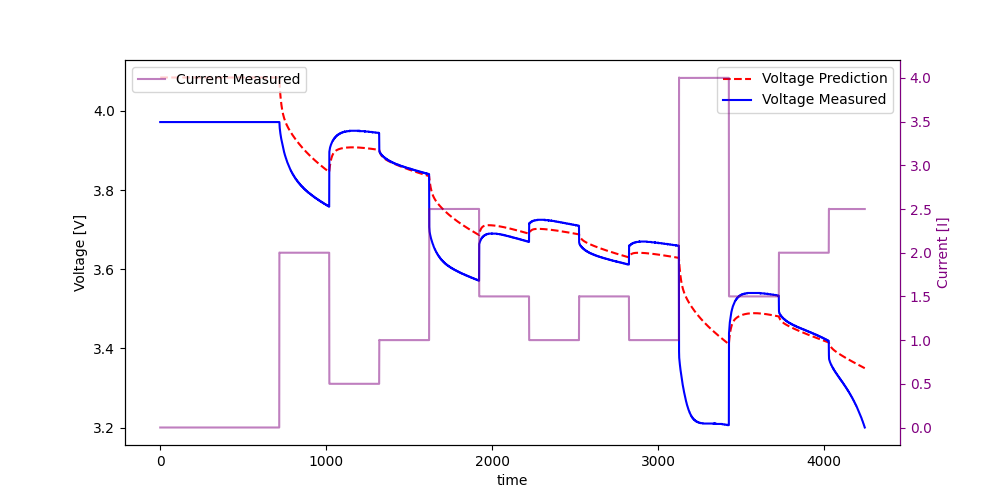
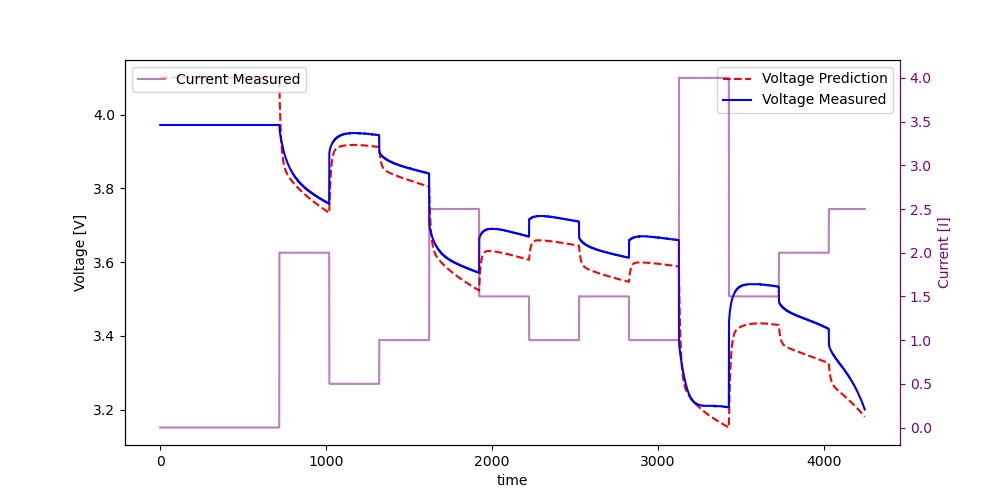
Updated training scheme

diff --git a/torch/BatteryRNNCell_mlp.py b/torch/BatteryRNNCell_mlp.py
@@ -37,24 +37,40 @@ class BatteryRNNCell(nn.Module):
 
         # Initialize MLPp weights
         # Load the weights from the .pth file
-        weights_path = 'torch_train/mlp_initial_weights.pth'
-        mlp_p_weights = torch.load(weights_path)
-        #for keys in mlp_p_weights["model_state_dict"]:
-        #    print("keys available are ",keys)
-        #self.MLPp.load_state_dict(mlp_p_weights['model_state_dict'])
-        #self.MLPp.train()
-        self.WARM_START = WARM_START
-        if self.WARM_START:
-            with torch.no_grad():
-                # Assign weights and biases to each layer in the model
-                self.MLPp[1].weight.copy_(mlp_p_weights["model_state_dict"][ "MLPp.1.weight"])
-                self.MLPp[1].bias.copy_(mlp_p_weights["model_state_dict"]['MLPp.1.bias'])
-                self.MLPp[3].weight.copy_(mlp_p_weights["model_state_dict"]['MLPp.3.weight'])
-                self.MLPp[3].bias.copy_(mlp_p_weights["model_state_dict"]['MLPp.3.bias'])
-                self.MLPp[5].weight.copy_(mlp_p_weights["model_state_dict"]['MLPp.5.weight'])
-                self.MLPp[5].bias.copy_(mlp_p_weights["model_state_dict"]['MLPp.5.bias'])
+        if self.mlp_trainable:
+            weights_path = 'torch_train/mlp_initial_weights.pth'
+            mlp_p_weights = torch.load(weights_path)
+            #for keys in mlp_p_weights["model_state_dict"]:
+            #    print("keys available are ",keys)
+            #self.MLPp.load_state_dict(mlp_p_weights['model_state_dict'])
+            #self.MLPp.train()
+            self.WARM_START = WARM_START
+            if self.WARM_START:
+                with torch.no_grad():
+                    # Assign weights and biases to each layer in the model
+                    self.MLPp[1].weight.copy_(mlp_p_weights["model_state_dict"][ "MLPp.1.weight"])
+                    self.MLPp[1].bias.copy_(mlp_p_weights["model_state_dict"]['MLPp.1.bias'])
+                    self.MLPp[3].weight.copy_(mlp_p_weights["model_state_dict"]['MLPp.3.weight'])
+                    self.MLPp[3].bias.copy_(mlp_p_weights["model_state_dict"]['MLPp.3.bias'])
+                    self.MLPp[5].weight.copy_(mlp_p_weights["model_state_dict"]['MLPp.5.weight'])
+                    self.MLPp[5].bias.copy_(mlp_p_weights["model_state_dict"]['MLPp.5.bias'])
 
-            self.MLPp.to(DEVICE)
+                self.MLPp.to(DEVICE)
+        else:
+            weights_path = 'torch_train/mlp_trained_weights.pth'
+            mlp_p_weights = torch.load(weights_path)
+
+            with torch.no_grad():
+                self.MLPp[1].weight.copy_(mlp_p_weights["cell.MLPp.1.weight"])
+                self.MLPp[1].bias.copy_(mlp_p_weights['cell.MLPp.1.bias'])
+                self.MLPp[3].weight.copy_(mlp_p_weights['cell.MLPp.3.weight'])
+                self.MLPp[3].bias.copy_(mlp_p_weights['cell.MLPp.3.bias'])
+                self.MLPp[5].weight.copy_(mlp_p_weights['cell.MLPp.5.weight'])
+                self.MLPp[5].bias.copy_(mlp_p_weights['cell.MLPp.5.bias'])
+
+            # freeze MLPp
+            for param in self.MLPp.parameters():
+                param.requires_grad = False        
 
         X = torch.linspace(0.0, 1.0, 100).unsqueeze(1).to(DEVICE)
         Y = torch.linspace(-8e-4, 8e-4, 100).unsqueeze(1).to(DEVICE)
@@ -88,14 +104,14 @@ class BatteryRNNCell(nn.Module):
 
         if self.q_max_model is None:
             initial_q_max = torch.tensor(1.4e4 / self.q_max_base_value).to(DEVICE)
-            self.qMax = nn.Parameter(initial_q_max,requires_grad=not self.mlp_trainable).to(DEVICE)
+            self.qMax = nn.Parameter(initial_q_max,requires_grad=True).to(DEVICE)
         else:
             self.qMax = self.q_max_model(torch.tensor(self.curr_cum_pwh)) / self.qMaxBASE
             self.qMax.to(DEVICE)
 
         if self.R_0_model is None:
             initial_R_0 = torch.tensor(0.15 / self.R_0_base_value)
-            self.Ro = nn.Parameter(initial_R_0,requires_grad=not self.mlp_trainable).to(DEVICE)
+            self.Ro = nn.Parameter(initial_R_0,requires_grad=True).to(DEVICE)
         else:
             self.Ro = self.R_0_model(torch.tensor(self.curr_cum_pwh)) / self.RoBASE
             self.Ro.to(DEVICE)

diff --git a/torch/train_Ro_qmax_per_battery.py b/torch/train_Ro_qmax_per_battery.py
@@ -12,7 +12,7 @@ from model import get_model
 #DEVICE = torch.device("cuda" if torch.cuda.is_available() else "cpu")
 DEVICE = torch.device("cpu")
 NUM_EPOCHS = 1000
-BATTERY = 1
+BATTERY = 2
 
 ###### FOR REFERENCE : DATA INGESTION STARTS HERE ##########
 data_RW = getDischargeMultipleBatteries(varnames=['voltage', 'current', 'time'], discharge_type='discharge (random walk)')
@@ -91,23 +91,10 @@ train_idx = [i for i in np.arange(0,36) if i not in val_idx]
 ###### FOR REFERENCE : TRAINING STARTS HERE #########
         
 # Create the MLP model, optimizer, and criterion
-mlp = get_model(dt=dt, mlp=True, share_q_r=False, stateful=True).to(DEVICE)
+mlp = get_model(dt=dt, mlp=True, share_q_r=False, stateful=True,mlp_trainable=False).to(DEVICE)
 
-# load trained weights for MLPp
-weights_path = 'torch_train/mlp_trained_weights.pth'
-mlp_p_weights = torch.load(weights_path)
+# load trained weights for MLPp <-- Happens 
 
-with torch.no_grad():
-    mlp.cell.MLPp[1].weight.copy_(mlp_p_weights["cell.MLPp.1.weight"])
-    mlp.cell.MLPp[1].bias.copy_(mlp_p_weights['cell.MLPp.1.bias'])
-    mlp.cell.MLPp[3].weight.copy_(mlp_p_weights['cell.MLPp.3.weight'])
-    mlp.cell.MLPp[3].bias.copy_(mlp_p_weights['cell.MLPp.3.bias'])
-    mlp.cell.MLPp[5].weight.copy_(mlp_p_weights['cell.MLPp.5.weight'])
-    mlp.cell.MLPp[5].bias.copy_(mlp_p_weights['cell.MLPp.5.bias'])
-
-# freeze MLPp
-for param in mlp.cell.MLPp.parameters():
-    param.requires_grad = False
 
 optimizer = optim.Adam(mlp.parameters(), lr=5e-3)
 criterion = nn.MSELoss().to(DEVICE)
@@ -201,7 +188,7 @@ for i in range(X.shape[0]):
     ax2.tick_params(axis='y', colors='purple')
 
     plt.savefig(f'figures/predictionvsreality_random_walk_unshiffed{i}_Ro_qMax_battery_{BATTERY}.png')
-    # plt.show()
+    plt.show()
 ######## Validation is done here ##########
 
 
@@ -234,5 +221,5 @@ for i in range(X.shape[0]):
     ax2.tick_params(axis='y', colors='purple')
 
     plt.savefig(f'figures/predictionvsreality_random_walk_shiffed{i}_Ro_qMax_battery_{BATTERY}.png')
-    # plt.show()
+    plt.show()
 ######## Validation is done here ##########

diff --git a/torch/train_initial_conditions.py b/torch/train_initial_conditions.py
@@ -42,7 +42,7 @@ def get_data_tensor(data_dict, max_idx_to_use, max_size):
 
 # Load battery data
 data_RW = getDischargeMultipleBatteries()
-max_idx_to_use = 3 # We are training the battery with constamt current data #This is to force nly one battery data
+max_idx_to_use = 36 # We are training the battery with constamt current data #This is to force nly one battery data
 max_size = np.max([v[0, 0].shape[0] for k, v in data_RW.items()])
 dt = np.diff(data_RW[1][2, 0])[1]
 # Get data tensors
@@ -80,7 +80,7 @@ train_idx = [i for i in np.arange(0,36) if i not in val_idx]
 ###### FOR REFERENCE : TRAINING STARTS HERE #########
         
 # Create the MLP model, optimizer, and criterion
-mlp = get_model(dt=dt, mlp=True, share_q_r=False, stateful=True).to(DEVICE)
+mlp = get_model(dt=dt, mlp=True, share_q_r=False, stateful=True,mlp_trainable=False).to(DEVICE)
 optimizer = optim.Adam(mlp.parameters(), lr=5e-3)
 criterion = nn.MSELoss().to(DEVICE)
 param_count = sum(p.numel() for p in mlp.parameters() if p.requires_grad)
@@ -144,7 +144,7 @@ for epoch in range(num_epochs):
             print("Current Learning Rate:", current_learning_rate)
 
 # Save model weights
-torch.save(mlp.state_dict(), 'torch_train/mlp_trained_weights.pth')
+torch.save(mlp.state_dict(), 'torch_train/mlp_trained_weights_bias_correction.pth')
 trained_parameter_value = [mlp.cell.qMax.data.item(),mlp.cell.Ro.data.item()]
 print("Trained Parameter Value:", trained_parameter_value)
 # Plot predictions
@@ -257,8 +257,8 @@ if Validate:
     plt.grid()
 
     plt.xlabel('Time')
-    plt.savefig('figures/predictionvsreality_mlp_trained.png')
-    #plt.show()
+    plt.savefig('figures/predictionvsreality_biascorrected.png')
+    plt.show()
 
 ######## Validation is done here ##########
 

diff --git a/torch/eval_random_loading.py b/torch/eval_random_loading.py
@@ -89,7 +89,7 @@ train_idx = [i for i in np.arange(0,32) if i not in val_idx]
 ###### FOR REFERENCE : MODEL LOADING STARTS HERE ##########
 
 mlp = get_model(dt=dt, mlp=True, share_q_r=False, stateful=True).to(DEVICE)
-weights_path = 'torch_train/mlp_trained_weights.pth'
+weights_path = 'torch_train/mlp_trained_weights_bias_correction.pth'
 mlp_p_weights = torch.load(weights_path)
 
 with torch.no_grad():
@@ -100,7 +100,8 @@ with torch.no_grad():
     mlp.cell.MLPp[5].weight.copy_(mlp_p_weights['cell.MLPp.5.weight'])
     mlp.cell.MLPp[5].bias.copy_(mlp_p_weights['cell.MLPp.5.bias'])
 
-Ro_qmax_path ='torch_train/Ro_qmax_trained_weights.pth'
+#Ro_qmax_path ='torch_train/Ro_qmax_trained_weights.pth'
+Ro_qmax_path = 'torch_train/mlp_trained_weights_bias_correction.pth'
 Ro_qmax = torch.load(weights_path)
 
 with torch.no_grad():

diff --git a/torch/eval_reference_discharge.py b/torch/eval_reference_discharge.py
@@ -74,7 +74,7 @@ train_idx = [i for i in np.arange(0,36) if i not in val_idx]
 
 ###### FOR REFERENCE : MODEL LOADING STARTS HERE ##########
 mlp = get_model(dt=dt, mlp=True, share_q_r=False, stateful=True).to(DEVICE)
-weights_path = 'torch_train/mlp_trained_weights.pth'
+weights_path = 'torch_train/mlp_trained_weights_bias_correction.pth'
 mlp_p_weights = torch.load(weights_path)
 
 with torch.no_grad():
@@ -86,7 +86,8 @@ with torch.no_grad():
     mlp.cell.MLPp[5].bias.copy_(mlp_p_weights['cell.MLPp.5.bias'])
 
     
-Ro_qmax_path ='torch_train/Ro_qmax_trained_weights.pth'
+#Ro_qmax_path ='torch_train/Ro_qmax_trained_weights.pth'
+Ro_qmax_path = 'torch_train/mlp_trained_weights_bias_correction.pth'
 Ro_qmax = torch.load(weights_path)
 
 with torch.no_grad():

diff --git a/TF/BatteryRNNCell_mlp.py b/TF/BatteryRNNCell_mlp.py
@@ -357,6 +357,7 @@ class BatteryRNNCell(Layer):
             initial_state_0_3 = tf.ones([P.qMax.shape[0], 4], dtype=self.dtype) \
                 * tf.constant([292.1, 0.0, 0.0, 0.0], dtype=self.dtype)
             initial_state = tf.concat([initial_state_0_3, tf.expand_dims(qnBMax, axis=1), tf.expand_dims(qnSMax, axis=1), tf.expand_dims(qpBMin, axis=1), tf.expand_dims(qpSMin, axis=1)], axis=1)
+            tf.print("Intial state is ",initial_state)       
         else:
             initial_state = ops.convert_to_tensor(self.initial_state, dtype=self.dtype)
 

diff --git a/torch/weight_initialization.py b/torch/weight_initialization.py
@@ -95,7 +95,7 @@ mlp.eval()
 with torch.no_grad():
     pred = mlp(X_tensor).cpu().numpy()
 
-plt.plot(X, Y, color='gray')
-plt.plot(X, pred)
-plt.grid()
-plt.show()
+#plt.plot(X, Y, color='gray')
+#plt.plot(X, pred)
+#plt.grid()
+#plt.show()
